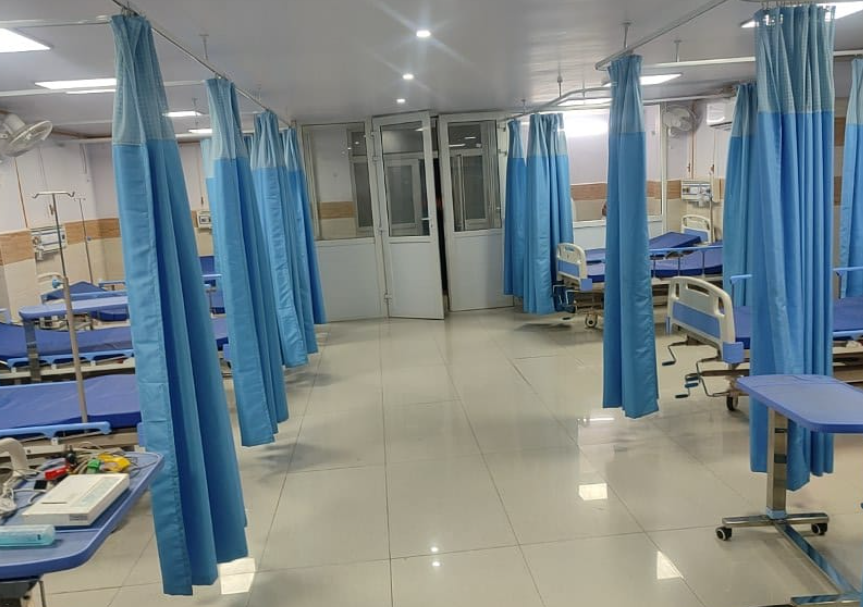
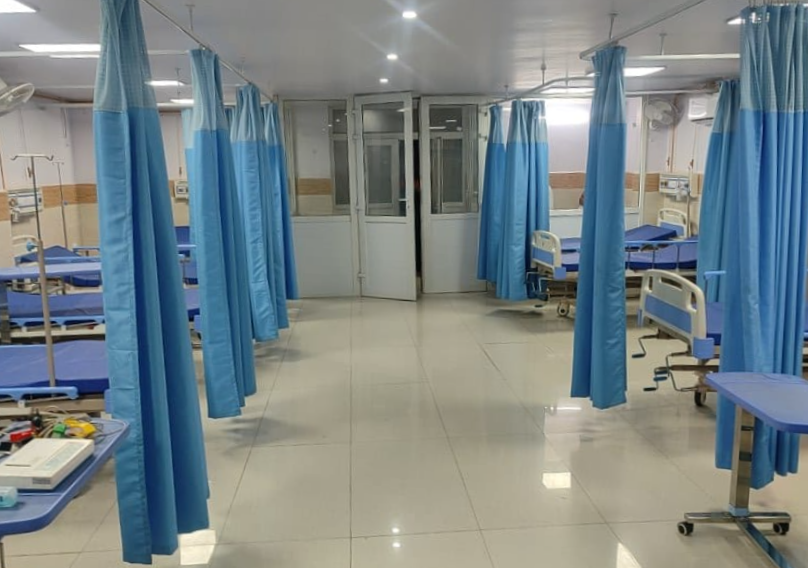
img imprvd

diff --git a/index.html b/index.html
@@ -2068,7 +2068,7 @@
     <div class="modern-gallery active" id="gal-all">
 
     <div class="gal-item large">
-        <img src="Images/7.webp" alt="Hospital Exterior">
+        <img src="Images/30.png" alt="Hospital Exterior">
         <div class="gal-overlay">
             <i class="fa-solid fa-expand"></i>
         </div>